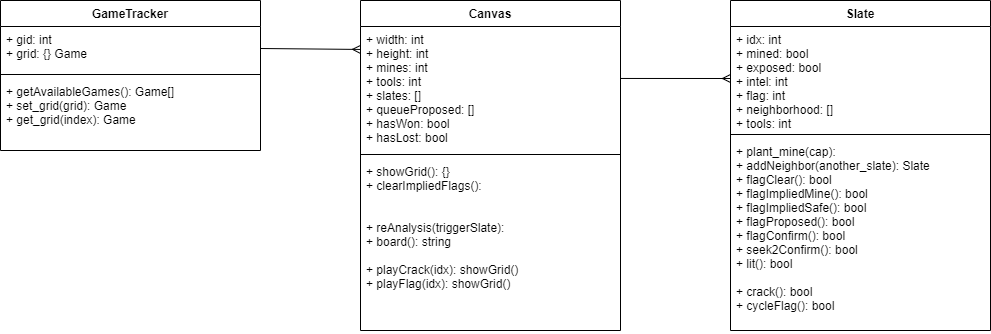
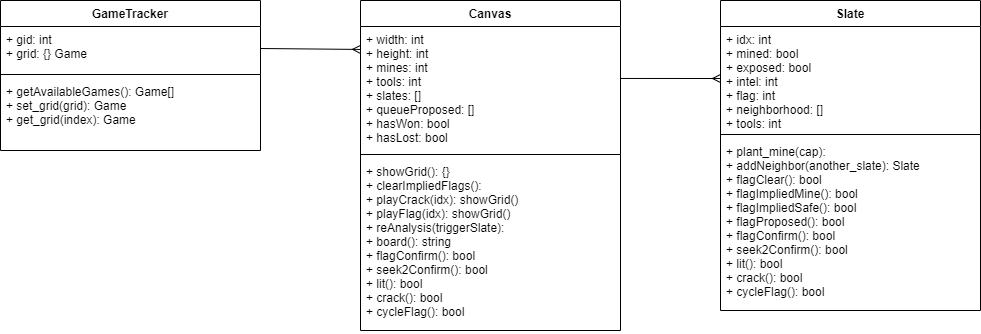
Final

diff --git a/src/minesweeper/game.py b/src/minesweeper/game.py
@@ -52,7 +52,7 @@ class Game(ABC):
         self.reset()
 
     def reset(self):
-        seed = 100 ## for test use fixed seed, change to none on roll out
+        seed = None ## for test use fixed seed, change to none on roll out
         self._canvas = Canvas(self.width, self.height, self.initial_mines, self.assistant, seed)
         self._discovered_mines =  self._canvas.discovery
         self._no_of_remaining_tiles = self.width * self.height - self.initial_mines

diff --git a/README-1.md b/README-1.md
@@ -1,7 +1,3 @@
-## AWS EC2 deployment at http://3.138.183.213:8000/
-
-The app has been deployed onto AWS. Check and see if it is still there.  This has been done with the help of https://www.twilio.com/blog/deploy-flask-python-app-aws.
-
 ## To execute (on Windows)
 
 Open an Anaconda Prompt session, perform the following:
@@ -124,16 +120,11 @@ the player loses.
 keeps track of the number of times it is informed, and this is the intel of the slate.  This number is fixed once the mines 
 planting is completed.
 
-Object Orientated paradigm is adopted by having attributes and methods implemented to where each belong, and the two classes
-are carefully isolated.
-
-## How to verify the authenticity of the Intelligent playing mode
+**How to verify the authenticity of the Intelligent playing mode**
 
 When the game is played, intelligent mode helps to identify mines, and automactically flags and opens appropriate slates.  
 How can one be sure that this is indeed the result of correct algorithm and analysis, and not intentional or accidental
 cheating?
-
-**Hiding of critical Slate attributes**
 
 To ascertain that the program logic that automates the playing of the game relies only on the same info as a player does,
 the `__private` attribute technique is used for the the critical attributes of the Slate class:
@@ -143,8 +134,6 @@ class Slate:
         self.__mined = False    # True if slate has a mine
         self.__exposed = False  # True if slate has been uncovered
         self.__intel = 0  # number of mines in the neighborhood
-        self.__neighborhood = []  # points to neighborhood Slates
-
 ```
  To find out the intelligence of, or determine if a slate is minded, one must go through the property methods:
 ```python
@@ -176,22 +165,10 @@ This is the only place `__exposed` is set to True, and it causes the game to be 
 Finally, by inspecting the proper access to `__mined` and `__intel` within the Slate class, one can be assured that 
 any analysis are based on valid known facts form the Canvas.
 
-**Hiding of Slate and Mine Positions**
-
-Slates do not know it's exact positon on the Canvas.  To perform analysis, each relies on the intel from its neighborhood.
-
 Another mechanism that prevents the location of mined slates from being known to outside of Slate class is that, 
 when a request is made from Canvas to plant a mine on a designated slate, the Slate method will perform random 
 walks in the neighborhood network to arrive at another slate to actually plant the mine.
 ```python
-
-    def addNeighbor(self, another_slate):
-        self.__neighborhood.append(another_slate)
-
-    @property
-    def neighborhood(self):
-        return self.__neighborhood
-
     def plant_mine(self, cap):
         sub_neighbor_steps = random.randint(0,int(math.sqrt(cap))) + 3
         curSlate = self
@@ -205,120 +182,6 @@ walks in the neighborhood network to arrive at another slate to actually plant t
 ```
 Note that the neighbor notified of addition of mines in its neighborhood, does not know which of its neighbors actually 
 is informing it.
-
-## Use of Graph Based algorithms
-
-**Recursion to implement propagaton**
-
-When a Slate is cracked open, and if it has no mine, it reveals its intel.  The pogram analyse the intel, and may 
-proceed to crack open some of its neighborhood Slates.  This process can propagage. 
-
-```python
-    ## For unexposed slates, player can tap to crack it open.  Each cracking tap is handled by this method
-    ## the method returns true if a mine has gone off
-    def crack(self):
-	    ...
-        # now expose this Slate
-        self.__exposed = True
-        # if this Slate has a mine, it explodes and game is over
-        if self.mined:
-            return True
-        pass
-        # now that this Slate is exposed, if its intel is = 0, all its neigborhood slates can be cracked open
-        if self.intel == 0:
-            for neighbor in self.neighborhood:
-                if not neighbor.exposed:
-                    print(f"    Crack slate[{neighbor.__idx}] because slate[{self.__idx}]intel=0")
-                    neighbor.crack()
-        # That's all for opening the Slate
-        if self.tools != 2:
-            return False
-        pass
-        ### The following is for games in Auto mode
-        # Check if neighborhood unexposed Slates count matches Intel, and
-        # flag all exposed slate with Confirm flag
-        self.seek2Confirm()
-        # For each Slate in the neighborhood
-        # Check if its neighborhood unexposed Slates count matches Intel, and
-        # flag all exposed slate with Confirm flag
-        for neighbor in self.neighborhood:
-            neighbor.seek2Confirm()
-        # Check if neighborhood Confirmed flag count matches Intel,
-        # and crack open all unflagged slates
-        if (self.intel > 0) and (self.intel == self.flagCIntel):
-            for neighbor in self.neighborhood:
-                if (not neighbor.exposed) and (flag_symbols[neighbor.flag][1] != 'confirmed'):
-                    print(f"    Crack neighbor slate[{neighbor.__idx}] because slate[{self.__idx}] flag count = Intel")
-                    neighbor.crack()
-        # Repeat for each neighborhood Slate
-        for neighbor in self.neighborhood:
-            if (neighbor.exposed) and (neighbor.intel > 0) and (neighbor.intel == neighbor.flagCIntel):
-                for sub_neighbor in neighbor.neighborhood:
-                    if (not sub_neighbor.exposed) and (flag_symbols[sub_neighbor.flag][1] != 'confirmed'):
-                        print(f"    Crack sub-neighborSlate[{sub_neighbor.__idx}] of slate[{neighbor.__idx}] with flag count = intel")
-                        sub_neighbor.crack()
-        return False
-```
-
-**BFS to implement What-if Analysis**
-
-When the player plants a Proposed flag, the program will analyse the Slates, and when sufficient assumption is made, it
-will proceed to plant Implied flags.  Such flags will require further analysis.  So these flags are added to a queue
-as and when they are planted, so that they can be analysed subsequenly.  As the program analyses all the neighbors of
-a Slate before proceeding to take out another Slate from the queue, this is a BFS search.
-
-```python
-    def reAnalysis(self, triggerSlate):
-        workQueue = self.__queueProposed.copy()
-        if triggerSlate != None and triggerSlate.flag == 1:
-            workQueue.insert(0,triggerSlate)
-        ## perform the analysis for each slate in queue
-        workQueue = self.__queueProposed.copy()
-        while len(workQueue) > 0:
-            thisSlate = workQueue.pop(0)
-            print(f"         analysing exposed neighborhood of slate[{thisSlate.idx}] for implied mines")
-            ## From this queue which starts with slates with proposed flags, derive implied flags.
-            ## As Implied flags are planted, each slate with new flag is added to the queue for similar analysis.
-            ## This goes on until the queue is cleared.
-            for neighbor in thisSlate.neighborhood:
-                # print(f"        analysis of mines for neignbor slate[{neighbor.idx}]")
-                # check Intel of its exposed neighbors, if it's intel matches un-exposed slates in its neighborhood,
-                # plant implied mine flags.
-                if neighbor.exposed and (neighbor.intel == neighbor.unexposedIntel - neighbor.flagSIntel):
-                    print(f"             analysing un-exposed sub_neighborhood of neighborSlate[{neighbor.idx}]")
-                    for sub_neighbor in neighbor.neighborhood:
-                        # print(f"            analysis of sub-neignbor slate[{sub_neighbor.idx}]")
-                        if not sub_neighbor.exposed and (sub_neighbor.flag == 0):
-                            print(f"                 sub_neighborSlate[{sub_neighbor.idx}] has implid mine")
-                            sub_neighbor.flagImpliedMine()
-                            workQueue.append(sub_neighbor)
-            print(f"         analysing exposed neighborhood of slate[{thisSlate.idx}] for implied safe slates")
-            for neighbor in thisSlate.neighborhood:
-                # print(f"        analysis of safe for neignbor slate[{neighbor.idx}] having {neighbor.exposed} {neighbor.intel} {neighbor.flagCIntel+neighbor.flagPIntel+neighbor.flagMIntel}")
-                # check Intel of my exposed neighbors, if its intel matches flag count,
-                # plant implied safe flags to the remaining unexposed neighbors.
-                if neighbor.exposed and (
-                        neighbor.intel == neighbor.flagCIntel + neighbor.flagPIntel + neighbor.flagMIntel):
-                    print(f"             analysing un-exposed sub_neighborhood of neighborSlate[{neighbor.idx}]")
-                    for sub_neighbor in neighbor.neighborhood:
-                        # print(f"            analysis of sub-neignbor slate[{sub_neighbor.idx}]")
-                        if (not sub_neighbor.exposed) and (sub_neighbor.flag == 0):
-                            print(f"                 sub_neighborSlate[{sub_neighbor.idx}] implid safe")
-                            sub_neighbor.flagImpliedSafe()
-                            workQueue.append(sub_neighbor)
-```
-
-## Documentation
-
-There are in-program comments to explain key segments of program logic.
-
-The idx attribute is used for each Slate. This attibute is for printing tracing statements for debugging purpose only.
-The index is not used otherwise.
-
-The tracing statements clearly denote what the analyis it is performing.
-
-
-## Others
 
  
 **Api**
